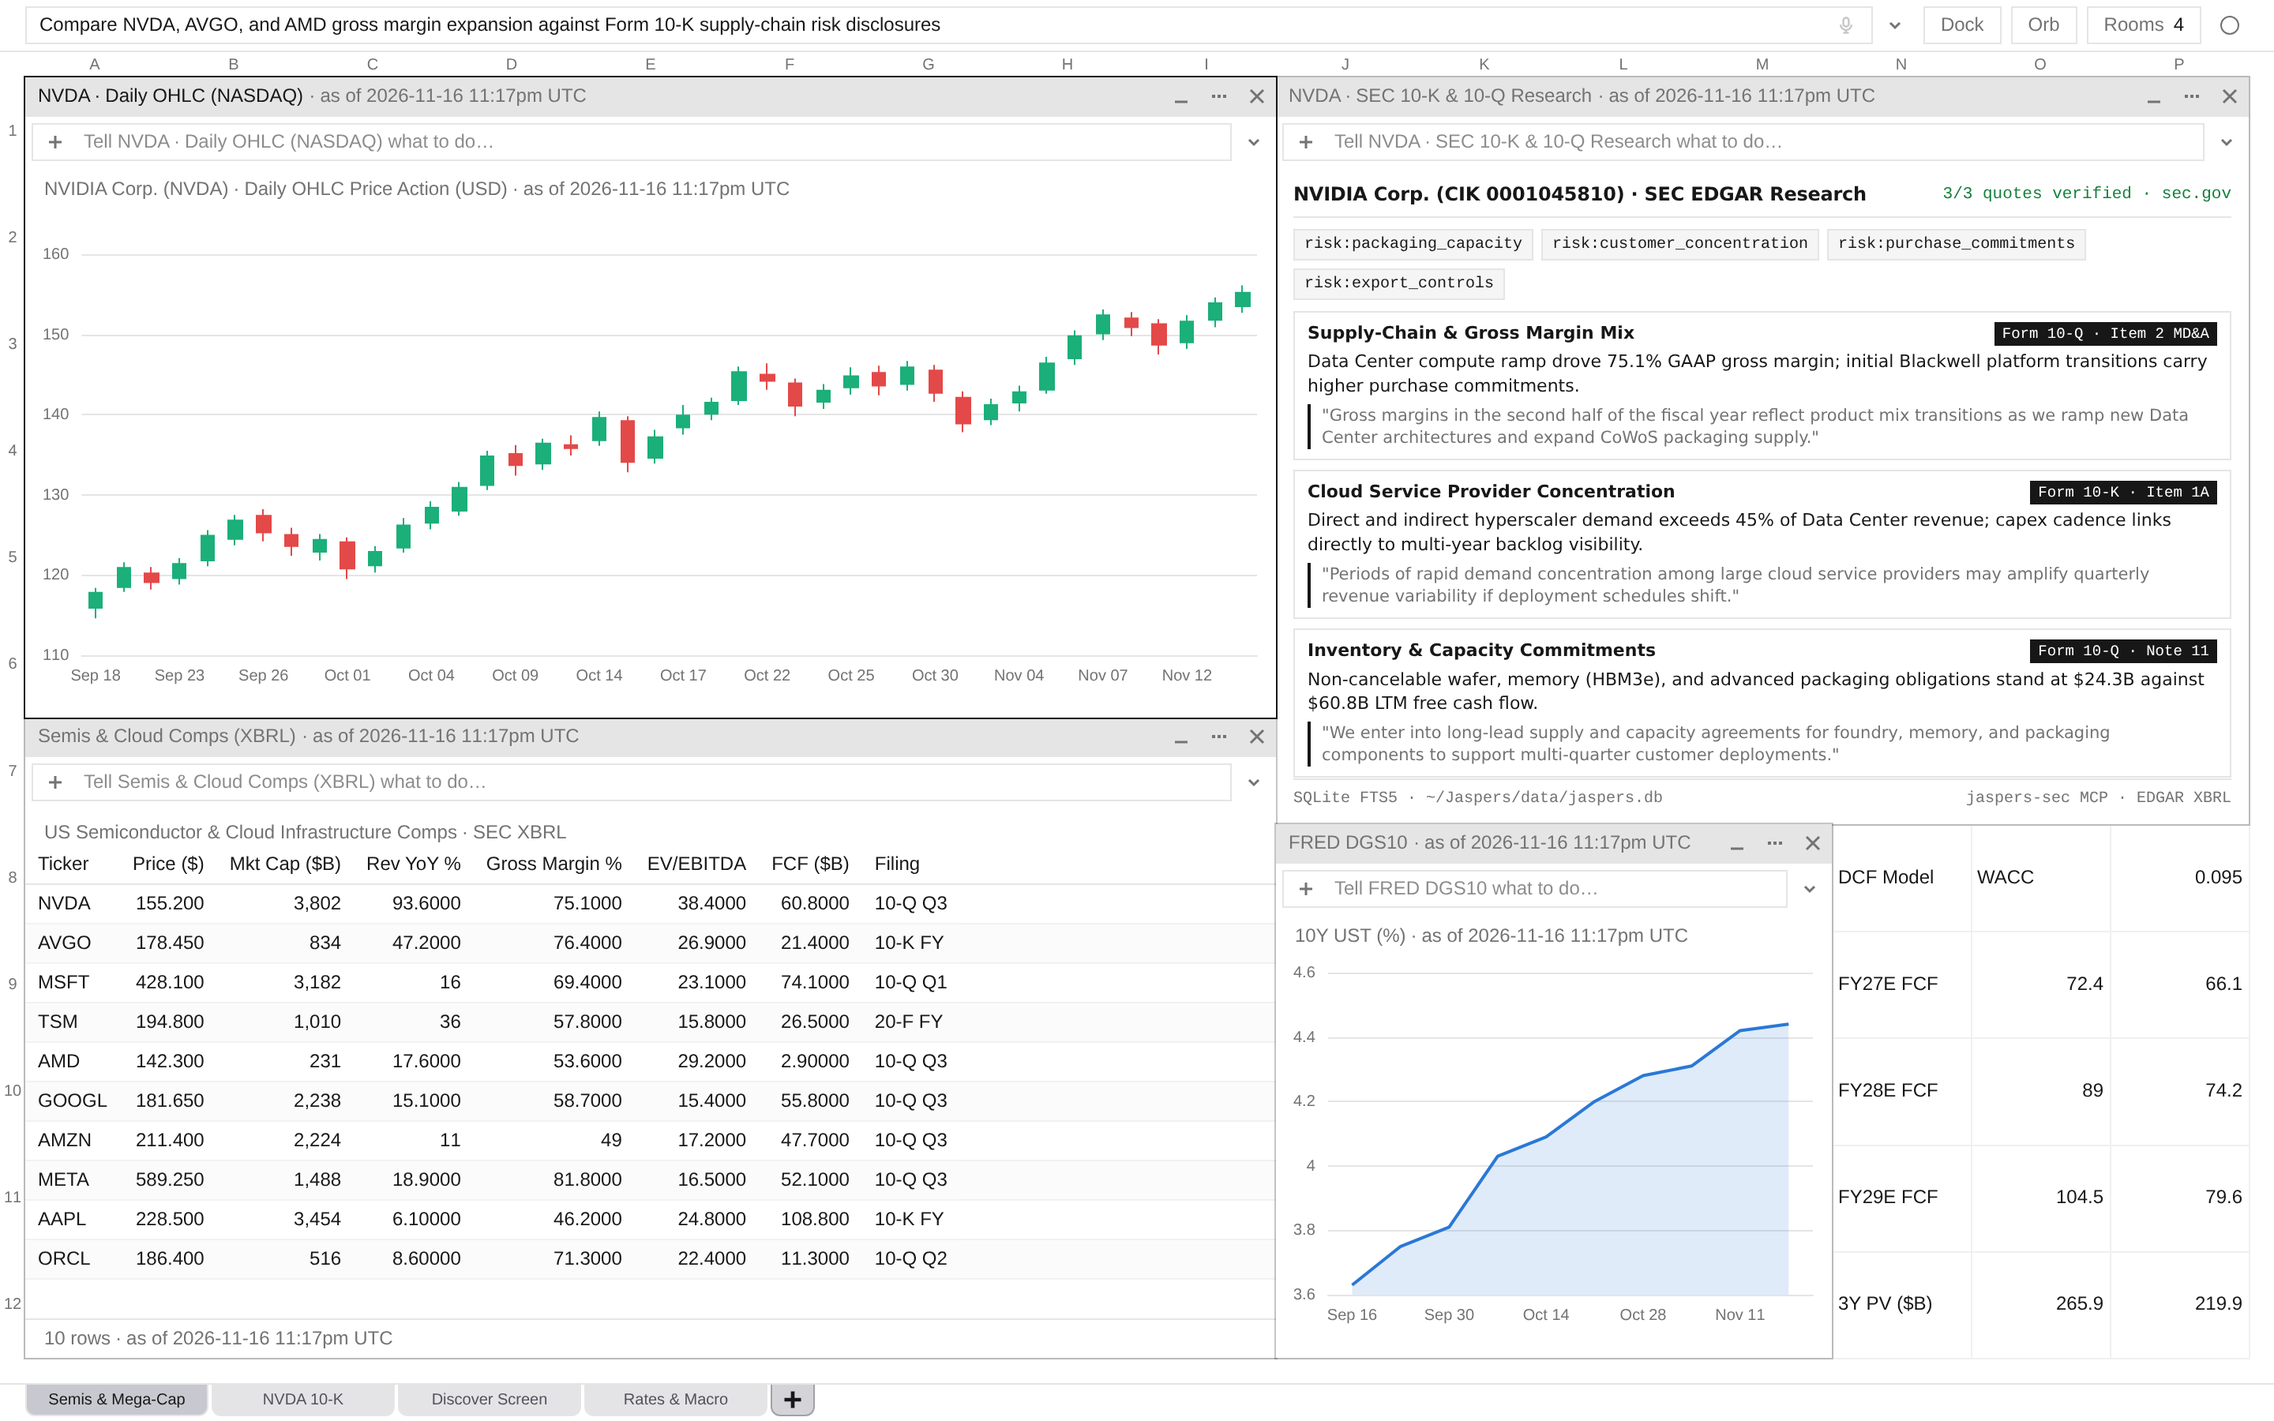
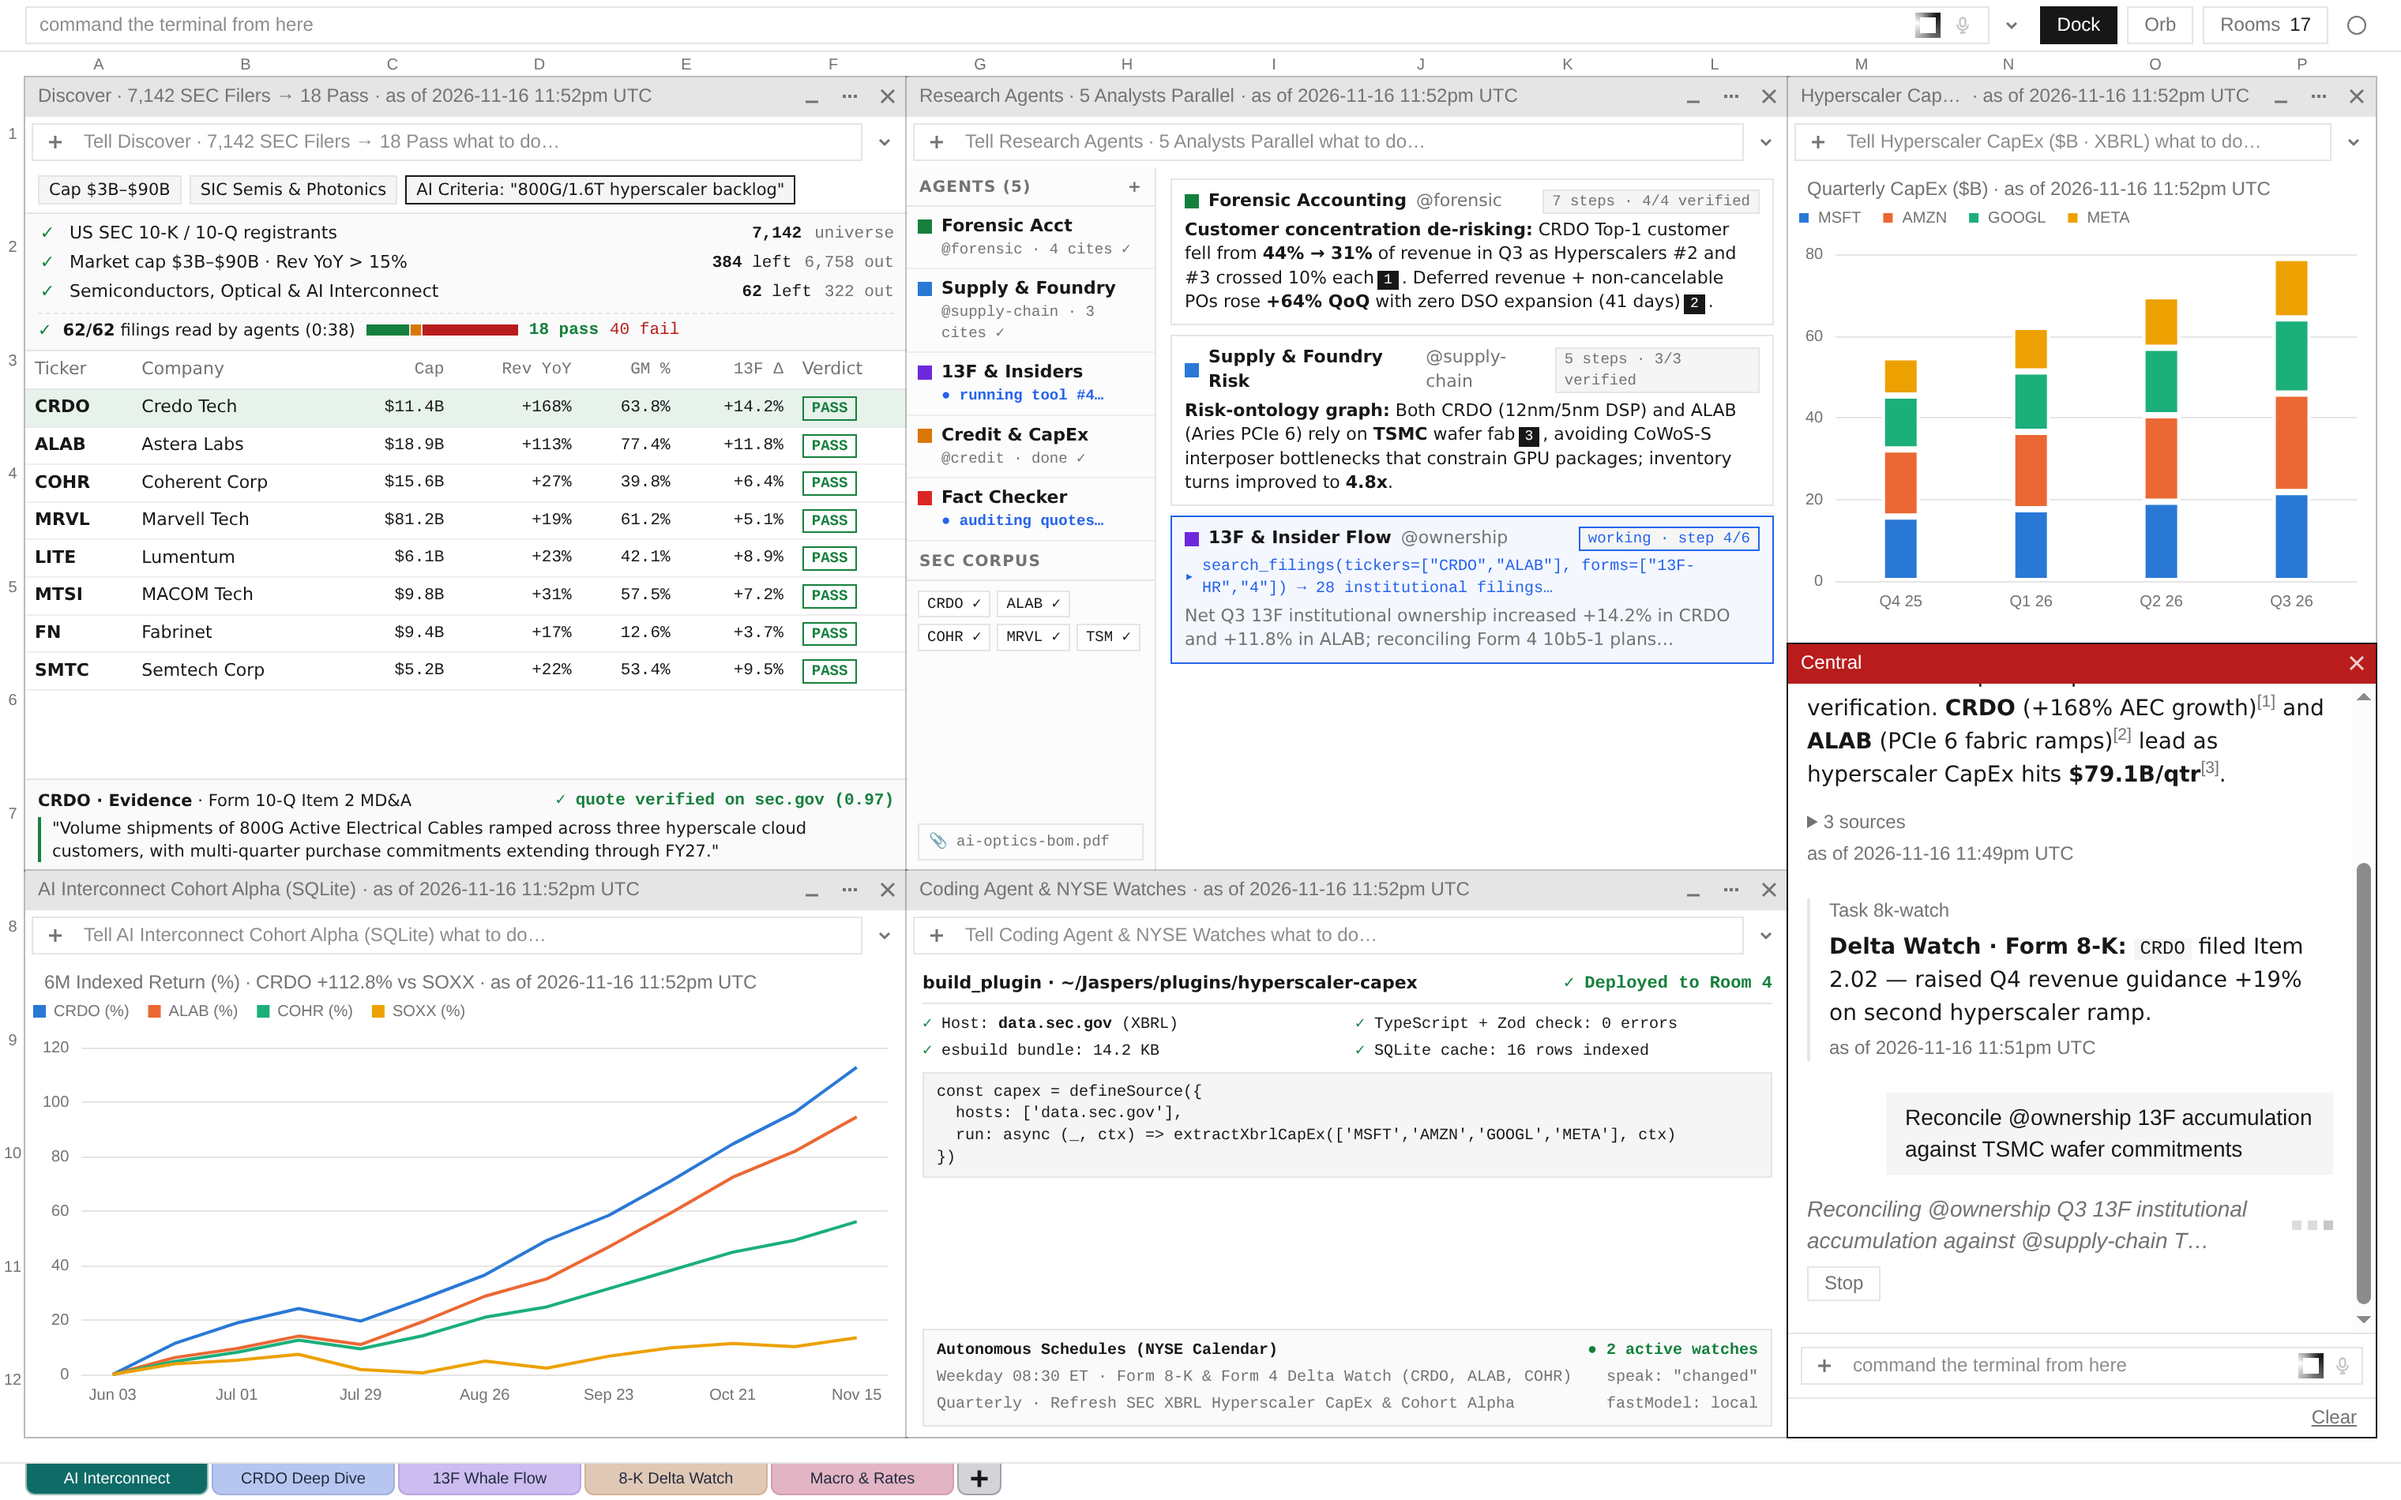
docs: replace README screenshot with parallel research agents showcase

diff --git a/README.md b/README.md
@@ -30,7 +30,7 @@ To enable local, open-weight, and cloud models to run multi-step financial workf
 <p align="center">
   <picture>
     <source type="image/webp" srcset="docs/assets/jaspers-terminal-public-markets-workspace.webp">
-    <img src="docs/assets/jaspers-terminal-public-markets-workspace.png" alt="Jaspers Terminal desktop application showing a public-market research workspace on a spreadsheet grid with an equity candlestick chart, SEC 10-K and 10-Q cited filing analysis, a semiconductor fundamentals table, a 10-year Treasury chart, live DCF formulas, and the command bar" width="100%">
+    <img src="docs/assets/jaspers-terminal-public-markets-workspace.png" alt="Jaspers Terminal desktop application showing parallel financial research agents, a 7,142-company qualitative SEC filing screen with verified sec.gov quotes, multi-series cohort alpha and hyperscaler CapEx charts, the built-in plugin coding agent, NYSE scheduled delta watches, and the docked Central orchestrator" width="100%">
   </picture>
 </p>
 
